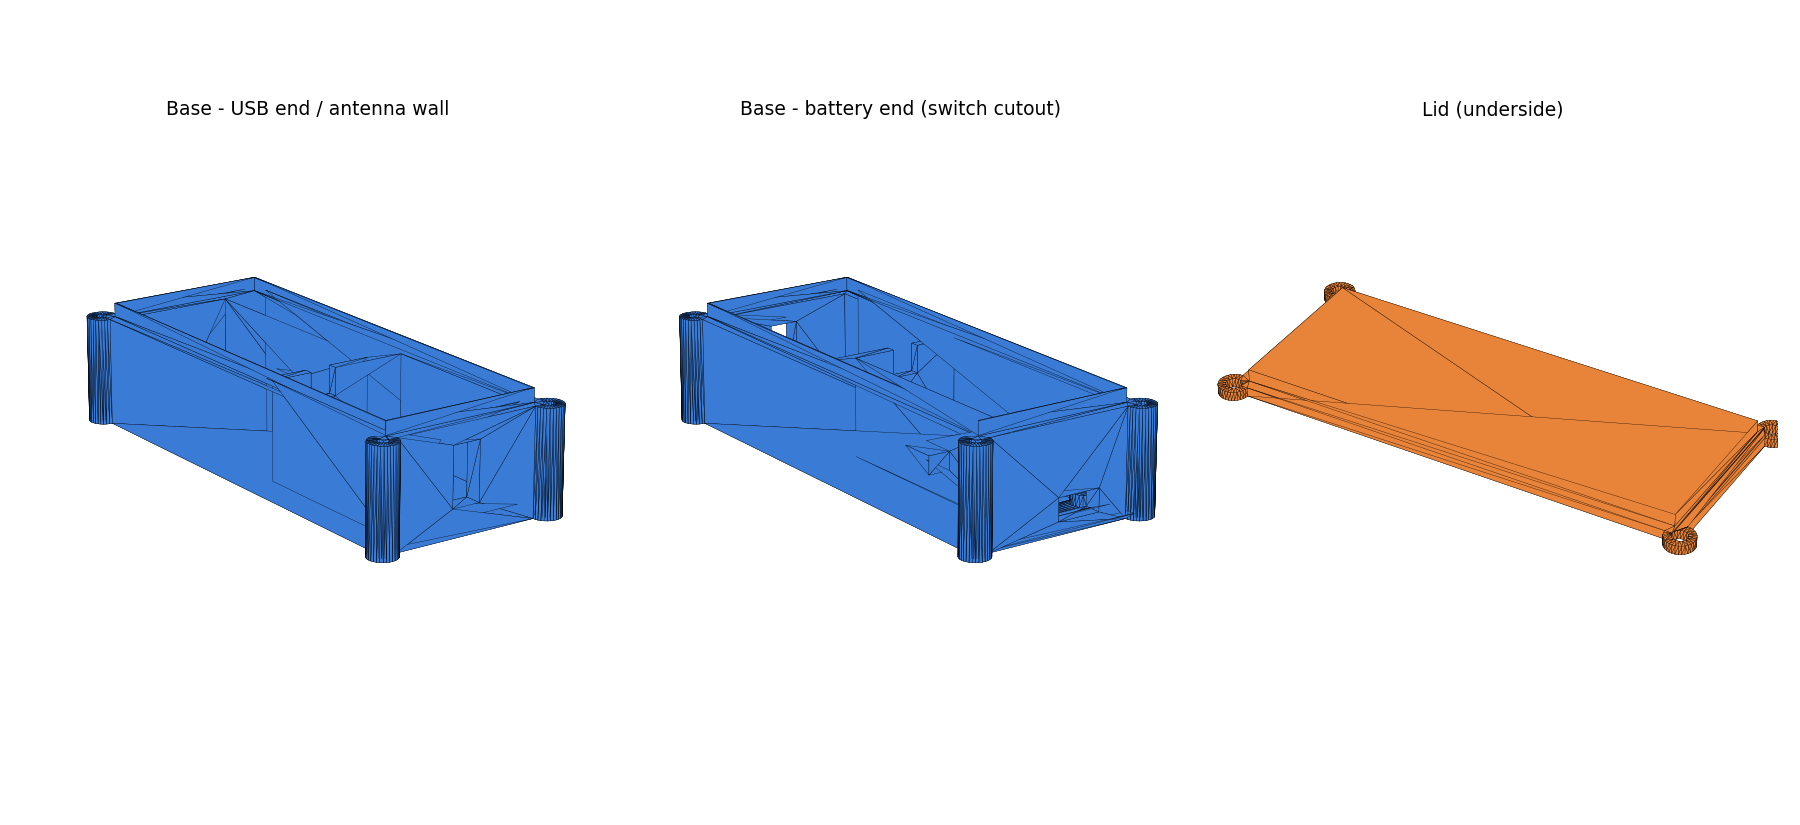
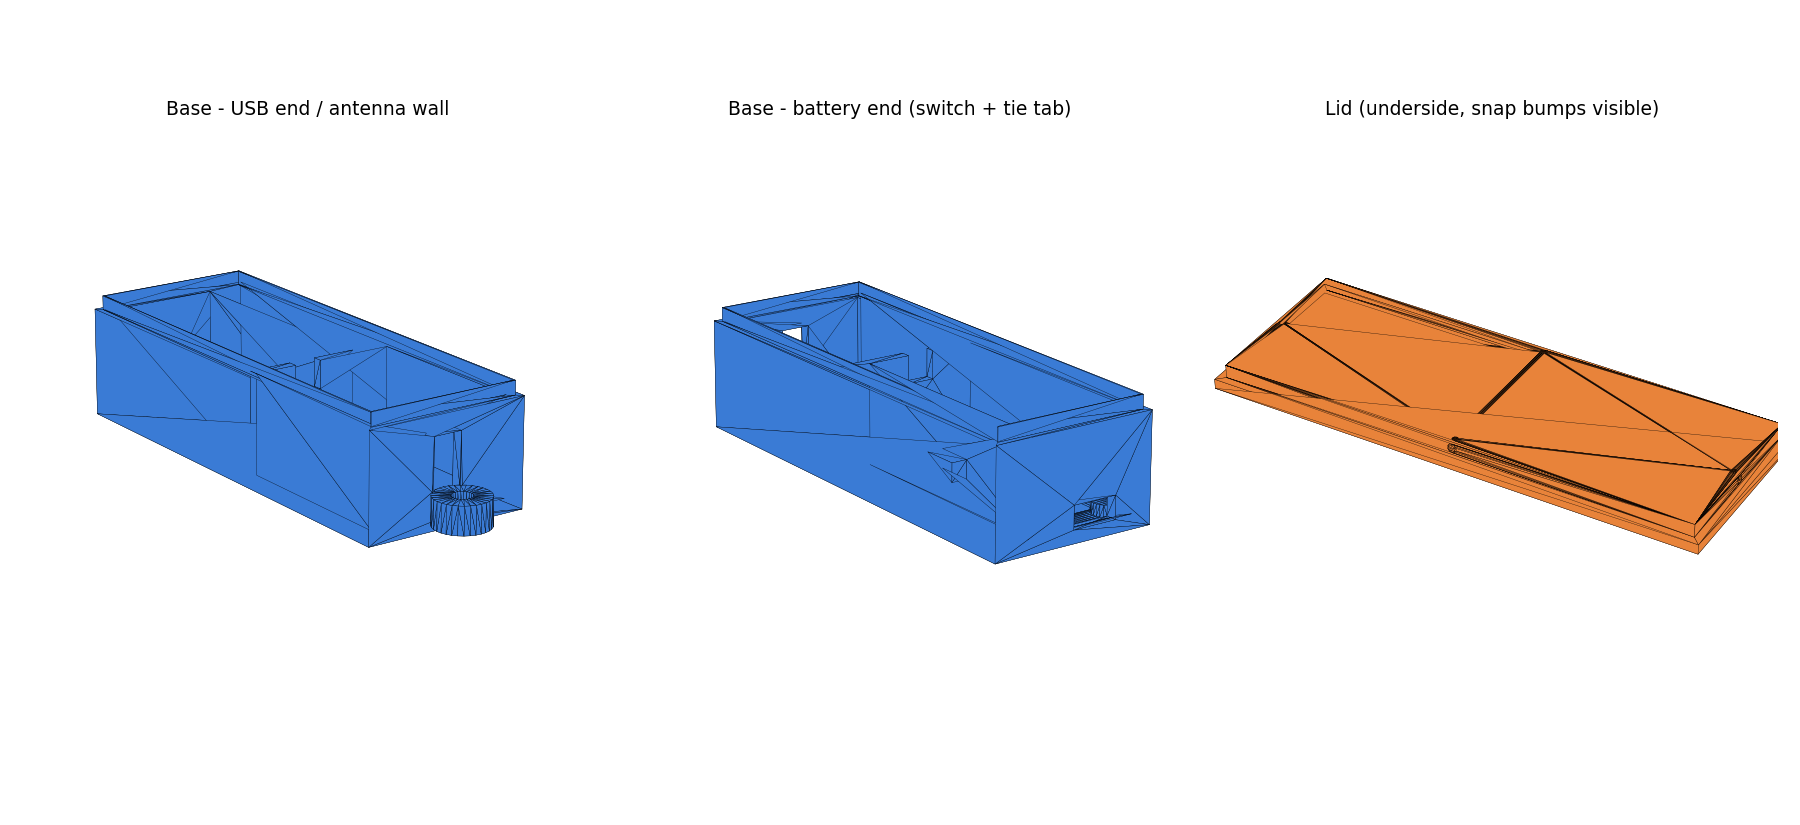
Case: replace screw ears with snap-fit+glue closure, add parachute tie tab

diff --git a/SETUP_README.md b/SETUP_README.md
@@ -121,7 +121,9 @@ If those two ever disagree by more than a few minutes, it means you edited the s
 
 ![Preview of the transmitter case, base and lid](enclosures/transmitter_case_preview.png)
 
-`enclosures/transmitter_case.scad` is a parametric [OpenSCAD](https://openscad.org) enclosure for the transmitter stack: a pocket for the Feather M0 + GPS FeatherWing, a bay for the 500mAh LiPo, a USB cutout for flashing/charging, an exit slot for the antenna, and a panel-mount cutout for an inline power switch spliced into the battery lead (the transmitter has no on/off switch of its own — see "Power (receiver)" above for why one helps here too). Base and lid screw together with 4x M3 self-tapping screws through the corner ears.
+`enclosures/transmitter_case.scad` is a parametric [OpenSCAD](https://openscad.org) enclosure for the transmitter stack: a pocket for the Feather M0 + GPS FeatherWing, a bay for the 500mAh LiPo, a USB cutout for flashing/charging, an exit slot for the antenna, and a panel-mount cutout for an inline power switch spliced into the battery lead (the transmitter has no on/off switch of its own — see "Power (receiver)" above for why one helps here too).
+
+The lid press-fits onto the base with a lip and 4 small snap bumps that give it a "click" and hold it shut for handling — no screws sticking out, which keeps the footprint smaller for fitting down an airframe. It's meant to be glued shut once you've test-fit everything and are happy with it, not re-opened repeatedly. There's also a molded tie tab on the battery-bay end with a ~4.5mm hole through it, for tying the transmitter to the parachute or recovery harness with paracord or shock cord — so it comes down attached to the rocket instead of becoming its own separate object in the air.
 
 **Read the comments at the top of the file before printing.** The board/header/connector dimensions come from Adafruit's published specs, not calipers on your actual hardware, so a few things (USB cutout position, antenna slot position, mounting-hole spacing) are best-effort estimates with generous built-in clearance. Print the base first, test-fit your actual boards and battery, and nudge the relevant variable at the top of the file if something's off before printing the lid.
 
